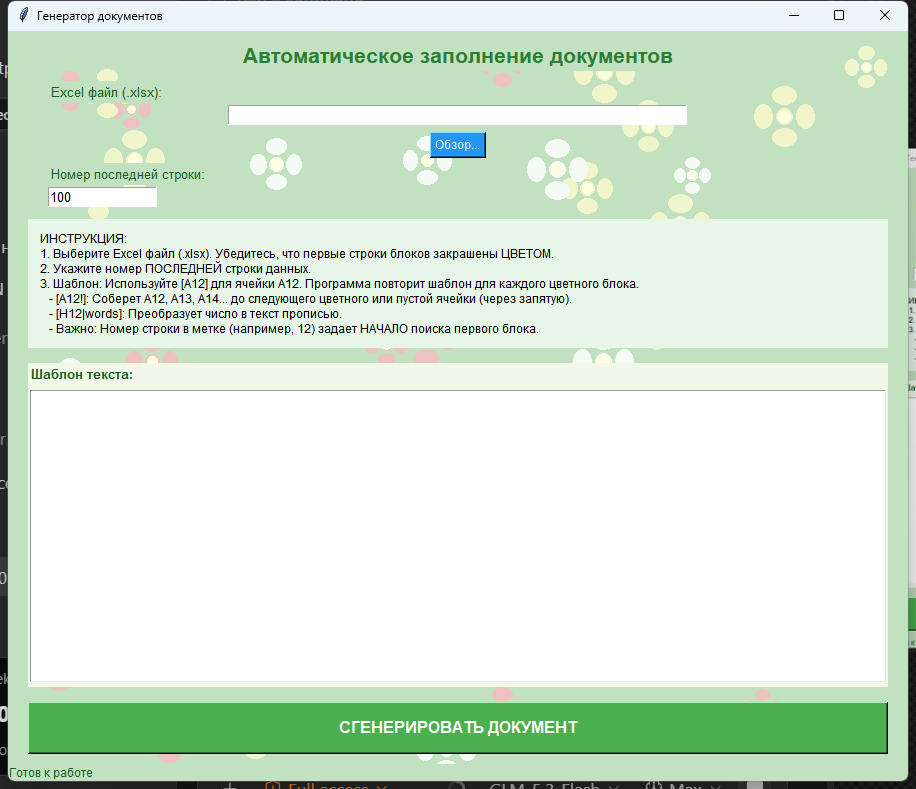
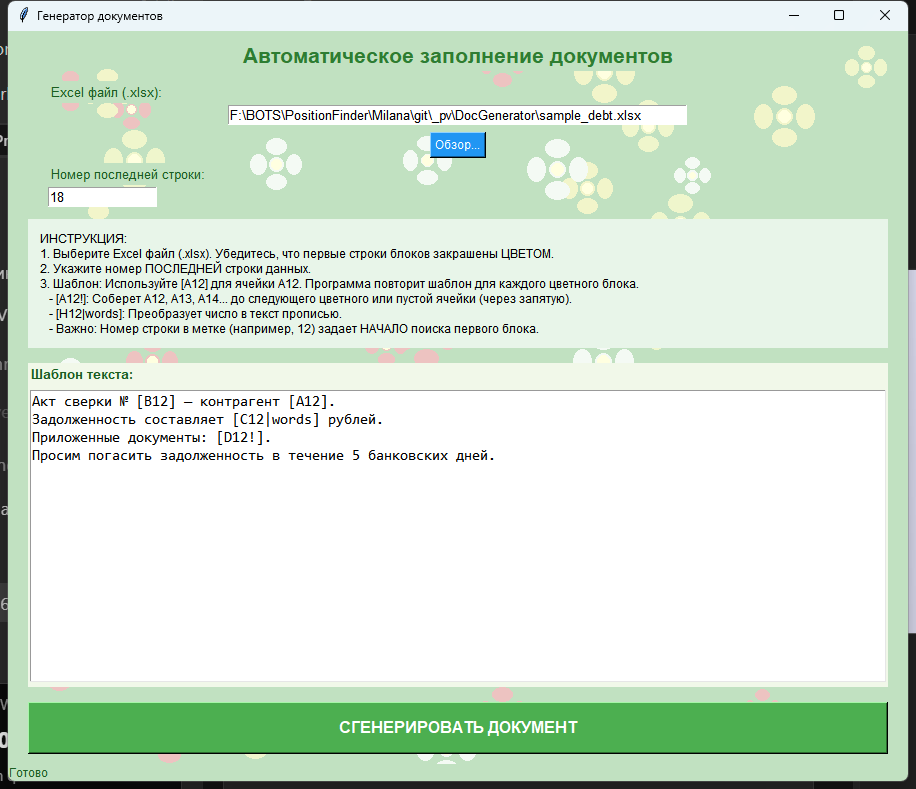
Replace screenshot with working state: template marks, file loaded, document generated

diff --git a/README.md b/README.md
@@ -2,7 +2,7 @@
 
 Программа для автоматического создания юридических и бухгалтерских документов (актов сверки, соглашений о взаимозачете, претензий) на основе данных из таблиц Excel. Инструмент предназначен для бухгалтеров, экономистов и юристов, позволяя исключить ошибки ручного ввода и сократить время подготовки документов с часов до минут.
 
-![Окно программы](docs/screenshot.png)
+![Программа в работе: загружен Excel-файл, задан шаблон с метками, документ сгенерирован](docs/screenshot.png)
 
 ## Основные возможности
 
